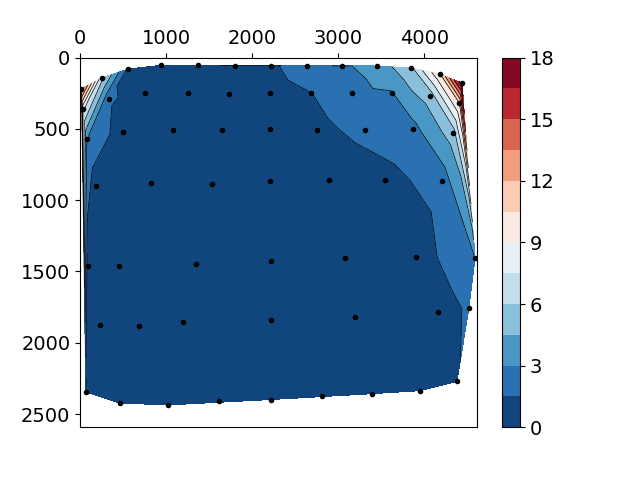
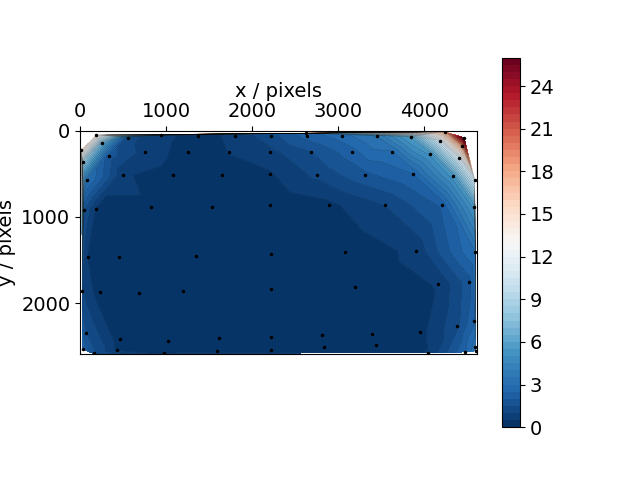
added more points to heatmap and adjusted settings

diff --git a/project.py b/project.py
@@ -121,16 +121,26 @@ def drawContourMap(row):
 	y = errorArray[:,1]
 	error = errorArray[:,2]
 
-	ax.tricontour(x, y, error, levels=14, linewidths=0.5, colors='k')
-	cntr = ax.tricontourf(x, y, error, levels=14, cmap="RdBu_r")
+	ax.tricontour(x, y, error, levels=54, linewidths=0.1, colors="k")
+	cntr = ax.tricontourf(x, y, error, levels=54, cmap="RdBu_r")
 	fig.colorbar(cntr, ax=ax)
-	ax.plot(x, y, 'ko', ms=3)
+	ax.plot(x, y, "ko", ms=1.5)
 	ax.set(xlim=(0, 4608), ylim=(0, 2592))
+	ax.set_aspect("equal", adjustable="box")
+	ax.set_xlabel("x / pixels")
+	ax.set_ylabel("y / pixels")
+	ax.xaxis.set_label_position("top") 
 
 	plt.subplots_adjust(hspace=0.5)
 	plt.gca().invert_yaxis()
 	plt.savefig("Photos/contour_map.png")
 	plt.show()
+
+depth_far = np.array([
+	(190, 48, -60, 70),
+	(2621, 30, 10, 62),
+	(4240, 11, 60, 70),
+	(4460, 83, 70, 70)])
 
 depth_60 = np.array([
 	(16, 218, -60, 60),
@@ -169,16 +179,19 @@ depth_40 = np.array([
 	(2758, 509, 10, 40),
 	(3306, 509, 20, 40),
 	(3863, 504, 30, 40),
-	(4335, 529, 40, 40)])
+	(4335, 529, 40, 40),
+	(4586, 571, 48, 40)])
 
 depth_30 = np.array([
+	(47, 917, -33, 30),
 	(186, 903, -30, 30),
 	(824, 882, -20, 30),
 	(1528, 883, -10, 30),
 	(2211, 864, 0, 30),
 	(2890, 860, 10, 30),
 	(3546, 857, 20, 30),
-	(4200, 865, 30, 30)])
+	(4200, 865, 30, 30),
+	(4581, 890, 38, 30)])
 
 depth_20 = np.array([
 	(90, 1465, -25, 20),
@@ -190,6 +203,7 @@ depth_20 = np.array([
 	(4588, 1405, 30, 20)])
 
 depth_15 = np.array([
+	(28, 1856, -23, 15),
 	(230, 1875, -20, 15),
 	(689, 1879, -15, 15),
 	(1199, 1856, -10, 15),
@@ -207,9 +221,33 @@ depth_10 = np.array([
 	(2808, 2373, 5, 10),
 	(3388, 2357, 10, 10),
 	(3943, 2336, 15, 10),
-	(4377, 2271, 20, 10)])
+	(4377, 2271, 20, 10),
+	(4580, 2211, 23, 10)])
 
-all_depths = np.vstack((depth_10, depth_15, depth_20, depth_30, depth_40, depth_50, depth_60))
+depth_close = np.array([
+	(35, 2538, -20, 8),
+	(160, 2586, -18, 8),
+	(427, 2541, -15, 9),
+	(973, 2579, -10, 9),
+	(1591, 2554, -5, 9),
+	(2213, 2540, 0, 9),
+	(2831, 2513, 5, 9),
+	(3439, 2491, 10, 9),
+	(4046, 2577, 15, 8),
+	(4467, 2568, 20, 7),
+	(4588, 2510, 22, 7),
+	(4594, 2554, 22, 6.5)])
+
+all_depths = np.vstack((
+	depth_close,
+	depth_10,
+	depth_15,
+	depth_20,
+	depth_30,
+	depth_40,
+	depth_50,
+	depth_60,
+	depth_far))
 
 try:
 	#print(homographyError(depth_60))
